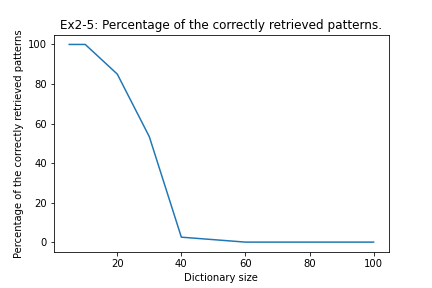
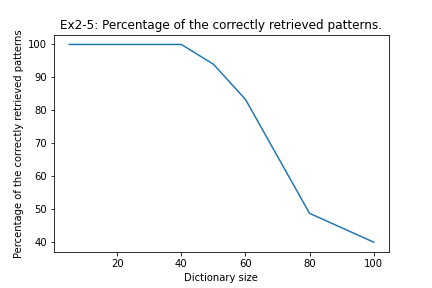
:()

diff --git a/Part2/Hop-Project-2.py b/Part2/Hop-Project-2.py
@@ -32,19 +32,10 @@ def hamming_distance(x,y):
 
 def map_function(theta_0):
     def map_function_theta(sigma_t0, w):
-        sigma_t1=sigma_t0
-        for i in range(len(w)):
-            sigma_t1[i]=0.5 * (1 + np.sign(np.dot(w[i],sigma_t0) - theta_0))
+        sigma_t1=[0.5 * (1 + np.sign(np.dot(wi,sigma_t0) - theta_0)) for wi in w]
         return sigma_t1
     return map_function_theta
 
-def map_function_2(theta_0):
-    def map_function_theta(sigma_t0, w):
-        sigma_t1=sigma_t0
-        for i in range(len(w)):
-            sigma_t1[i]=np.sign(np.dot(w[i],(sigma_t0+1)/2) - theta_0)
-        return sigma_t1
-    return map_function_theta
 
 
 def hop_network(N,n_patterns,a,b,theta_0):
@@ -55,29 +46,12 @@ def hop_network(N,n_patterns,a,b,theta_0):
     new_weights = weight_matrix(n_patterns, N, a, b, random_patterns)
     net = network.HopfieldNetwork(N)
     net.set_dynamics_to_user_function(map_function(theta_0))
+    net.set_dynamics_sign_async()
     #Changing the weights of the network
     net.weights=new_weights
     return net, random_patterns
 
 
-def pattern_mean_error(hamming_distance, m_vals, n_runs, flip_rate, N, 
-                       a, b, opt_theta, theta_0 ):
-    n_flips = int(flip_rate*N)
-    no_patterns=len(m_vals)
-    means=np.zeros(no_patterns)
-    for i in range(no_patterns):
-        theta = (1-opt_theta)*theta_0
-        net, random_patterns = hop_network(N,m_vals[i],a,b,theta)
-        mean_error=0
-        for pattern in random_patterns:
-            new_pattern=pattern*2-1
-            initial_state = pattern_tools.flip_n(new_pattern, n_flips)
-            initial_state=(initial_state + 1)/2
-            net.set_state_from_pattern(initial_state)
-            net.run(n_runs)
-            mean_error+=(hamming_distance(net.state,pattern)/m_vals[i])
-        means[i]=mean_error
-    return means
 
 def Capacity(hamming_distance, m_vals, n_runs, flip_rate, N, 
                        a, b, opt_theta, theta_0 ):
@@ -105,7 +79,7 @@ a = 0.5
 b = 0.5
 theta = 0
 n_runs = 6
-m_vals = (5, 10, 20, 30, 40, 60, 100)
+m_vals = (5, 30, 40, 50, 60, 80, 100)
 flip_rate = 0.05
 
 
@@ -124,7 +98,7 @@ def ex2_5():
     plt.show()
 
 def ex2_6():
-    theta_list=np.linspace(-0.7, 0.7, num = 10)
+    theta_list=np.linspace(-2, 2, num = 20)
     capacity=np.zeros(len(theta_list))
     
 
@@ -144,7 +118,7 @@ def ex2_6():
 def ex2_7():
     a = 0.1
     b = 0.1
-    theta_list=np.linspace(0.3, 1, num = 10)
+    theta_list=np.linspace(0.3, 1, num = 15)
     capacity=np.zeros(len(theta_list))
     
     
@@ -163,7 +137,7 @@ def ex2_7():
 def ex2_7_2():
     a = 0.05
     b = 0.05
-    theta_list=np.linspace(0.3, 1, num = 10)
+    theta_list=np.linspace(0.3, 1, num = 15)
     capacity=np.zeros(len(theta_list))
     
     
@@ -181,7 +155,7 @@ def ex2_7_2():
 
 def ex2_8():
     a = 0.1
-    b_list = np.linspace(0.1, 0.6, num=4)
+    b_list = np.linspace(0.05, 0.15, num=4)
     theta_list=np.linspace(-0.7, 0.7, num=15)
     capacity=np.zeros([len(b_list),len(theta_list)])
     
@@ -202,20 +176,6 @@ def ex2_8():
     plt.show()
 
 
-def ex2_5_2():
-    mean_error = 0
-    number_runs = 3
-    for i in range(number_runs):
-        mean_error=pattern_mean_error(hamming_distance, m_vals=m_vals, n_runs=n_runs, N=N, flip_rate=flip_rate, 
-                                       a=a, b=b, opt_theta=1, theta_0=theta)/number_runs
-    print(mean_error)
-    plt.plot(m_vals, mean_error)
-    plt.title("Ex2-5: Means distances between the final state and the target pattern.")
-    plt.xlabel("Number of patterns stored in the network")
-    plt.ylabel("Error (measured using Hamming distance)")
-    plt.savefig("plots/ex2-5.png")
-    plt.show()
-    print(np.interp(0.05, mean_error, m_vals))
 
 #ex2_5()
 #ex2_6()
